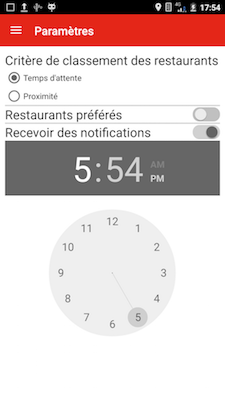
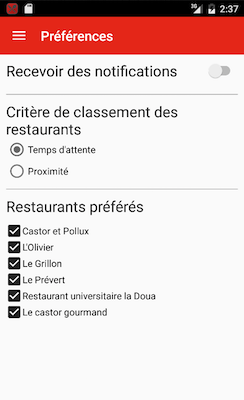
Relecture specif + MAJ doc

diff --git a/TrouvTonResto/Rapport/sections/specification.tex b/TrouvTonResto/Rapport/sections/specification.tex
@@ -1,23 +1,23 @@
-Notre analyse de besoins a fait ressortir la préoccupation et la difficulté
+Notre analyse des besoins a fait ressortir la préoccupation et la difficulté
 pour les étudiants de faire le bon choix de restaurant à chaque repas.
-Ce besoin peut paraitre accessoire ou futile mais l'attente aux restaurants
+Ce besoin peut paraître accessoire ou futile mais l'attente aux restaurants
 peut être une véritable source de stress pour un étudiant pressé. Il en
-va de même pour la constitution du repas qui peut décevoir l'étudiant une
-fois la longue attente terminée. Cela peut conduire certains étudiants à 
+va de même pour la constitution du repas qui peut décevoir une personne ayant
+longuement attendu pour manger. Cela peut conduire certains étudiants à 
 élaborer des stratégies complexes pour manger à la bonne heure et au bon
 endroit.
 
 Nous avons donc décidé de travailler sur un outil permettant aux étudiants
-d'avoir tout les éléments entre les mains au moment de la prise de décision.
+d'avoir tous les éléments entre les mains au moment de la prise de décision.
 
 Nous avons ensuite identifié les éléments importants utilisés par les étudiants lors de la prise de décision :
 \begin{itemize}
 \item le temps d'attente avant de pouvoir manger,
 \item le menu,
-\item la distance entre la localisation actuelle et le restaurant.
+\item et la distance entre la localisation actuelle et le restaurant.
 \end{itemize}
 
-Les étudiants étrangers connaissant peu le campus peuvent en plus avoir besoin
+Les étudiants étrangers connaissant peu le campus peuvent, en plus, avoir besoin
 d'un itinéraire guidé pour se rendre aux restaurants.
 
 Ce sont ces fonctionnalités principales qui sont à la base de la raison
@@ -25,22 +25,22 @@ d'être de l'application.
 Ces fonctionnalités principales donnent lieu aux fonctionnalités
 détaillées suivantes :
 \begin{itemize}
-\item visualisation du temps d'attente en fonction de
+\item la visualisation du temps d'attente en fonction de
 l'heure,
-\item visualisation du menu du jour,
-\item visualisation de la localisation sur un plan du campus,
-\item tri des restaurants selon le temps d'attente en fonction de l'heure,
-\item tri des restaurants selon la distance,
-\item envoie d'une notification concernant le meilleur choix de restaurant
+\item la visualisation du menu du jour,
+\item la visualisation de la localisation sur un plan du campus,
+\item le tri des restaurants selon le temps d'attente en fonction de l'heure,
+\item le tri des restaurants selon la distance,
+\item et l'envoi d'une notification quotidienne concernant le meilleur choix de restaurant
 (selon les critères de tri ci-dessus).
 \end{itemize}
 
 De plus l'application doit s'adapter à l'utilisateur et doit prendre en
 compte : 
 \begin{itemize}
-\item les restaurants fréquentés par l'utilisateur,
-\item le critère de classement préféré de l'utilisateur,
+\item les restaurants fréquentés,
+\item le critère de classement préféré,
 \item si l'utilisateur désire être notifié,
 \item à quelle heure l'utilisateur désire être notifié,
-\item quels jours l'utilisateur désire être notifié.
+\item et quels jours il désire être notifié.
 \end{itemize}

diff --git a/TrouvTonResto/Rapport/sections/documentation.tex b/TrouvTonResto/Rapport/sections/documentation.tex
@@ -93,8 +93,9 @@ Dans la section "Critère de classement des restaurants", il est possible de cho
 préférez que vos restaurants soient choisis et triées selon la proximité ou le temps 
 d'attente.
 
-Rajouter un truc sur les restaurants préférés en fonction de ce que julien va modifier
-cet aprèm
+Dans la section "Restaurants préférés", vous pouvez choisir quels restaurants
+vous souhaitez afficher dans la fenêtre principale de l'application. Pour ne
+pas afficher un restaurant, décochez simplement la case à côté du nom de celui-ci.
 
 La notification quotidienne qui vous est envoyée par défaut à midi chaque 
 jour de la semaine. Néanmoins, il est possible d'activer/désactiver  en cliquant sur 
@@ -104,7 +105,8 @@ afin qu'elle puisse vous prévenir au moment le plus opportun selon votre situat
 Si les notifications sont activées, un sélecteur d'heure va s'afficher en dessous comme 
 sur l'image ci-contre : \unscaledFigure{images/time.png}{Outil permettant de 
 sélectionner l'heure d'envoi de la notification}
-
+Pour définir les jours de la semaine où vous souhaitez recevoir une notification, cliquez sur le jour correspondant dans la barre en dessous du sélecteur d'heure. La notification vous est envoyée si le jour est en gris foncée. Par exemple, avec la configuration présente sur l'image suivante, vous ne recevrez une notification que le lundi et le vendredi à midi. 
+\unscaledFigure{images/pref_day.png}{Avec cette configuration, la notification n'est envoyée que le lundi et le vendredi à 12h}
 
 Pour toute information complémentaire, l'heptanôme H4404 reste disponible
 à l'adresse email suivante : heptanhommes@googlegroups.com. 
